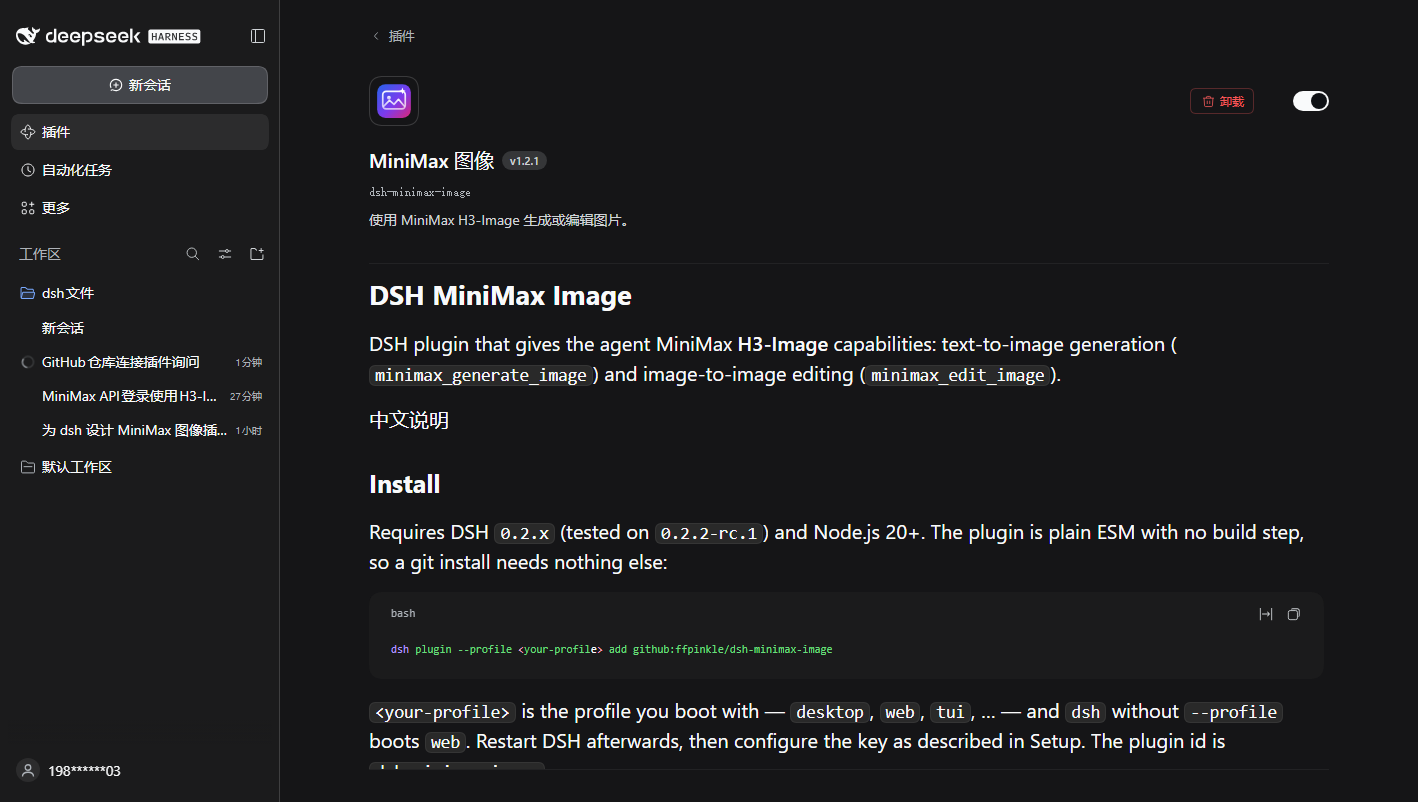
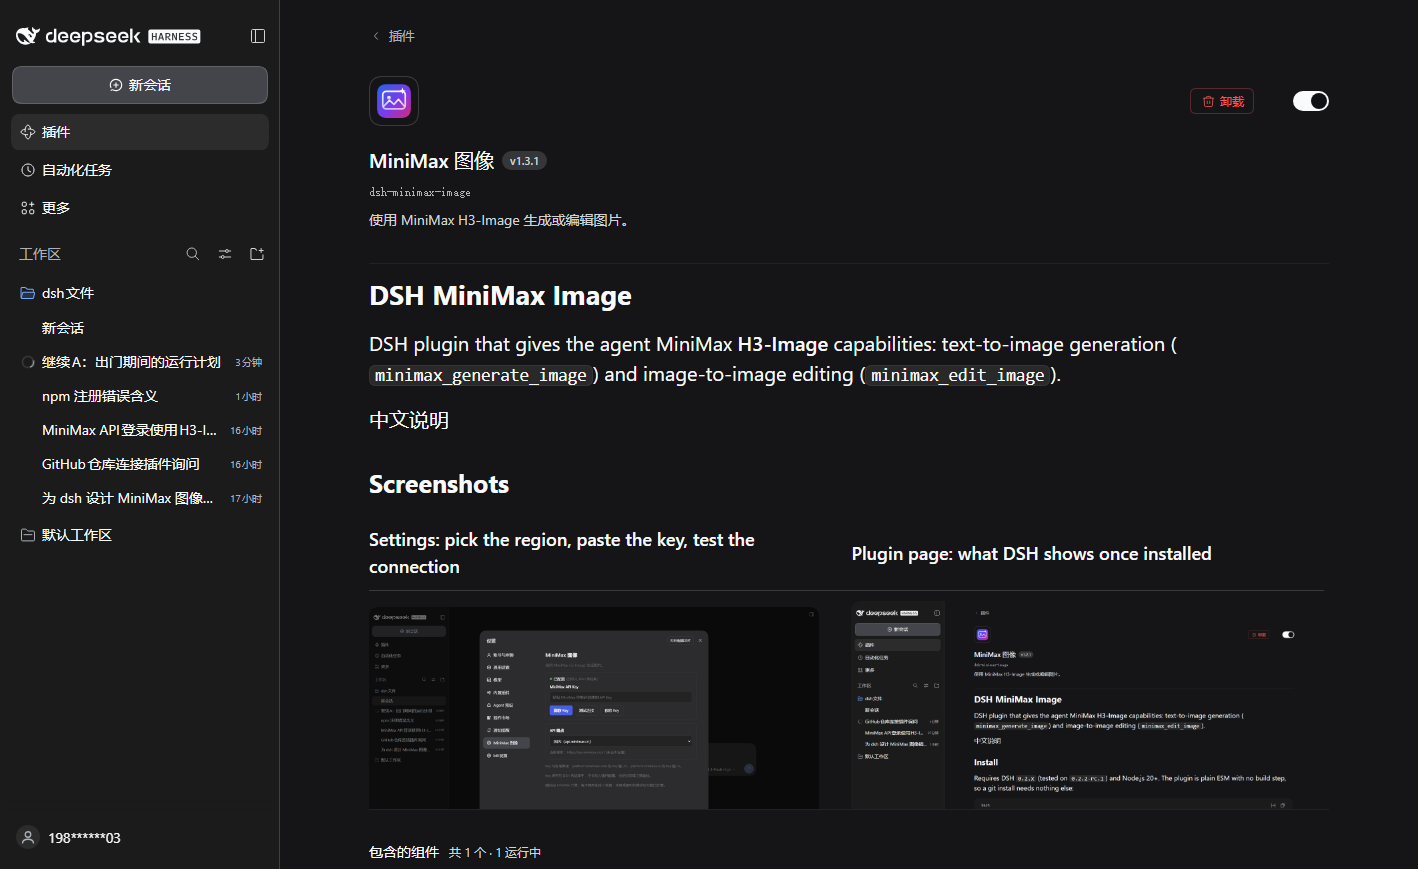
docs(readme): render the screenshots in the plugin page and refresh the plugin page image
Raw img tags inside a table are dropped by the plugin page renderer, so the README showed two empty cells; plain Markdown images work everywhere. screenshot-plugin.png is regenerated on 1.3.x.

diff --git a/README.md b/README.md
@@ -9,9 +9,9 @@ DSH plugin that gives the agent MiniMax **H3-Image** capabilities: text-to-image
 
 ## Screenshots
 
-| Settings | Plugin page |
+| Settings: pick the region, paste the key, test the connection | Plugin page: what DSH shows once installed |
 | --- | --- |
-| <img src="assets/screenshot-settings.png" alt="MiniMax Image settings section with a saved key and a passing connection test" width="460"> | <img src="assets/screenshot-plugin.png" alt="dsh-minimax-image plugin page in DSH" width="460"> |
+| ![MiniMax Image settings section with a saved key and a passing connection test](assets/screenshot-settings.png) | ![dsh-minimax-image plugin page in DSH](assets/screenshot-plugin.png) |
 
 ## Install
 

diff --git a/CHANGELOG.md b/CHANGELOG.md
@@ -8,6 +8,16 @@ All notable changes to this project are documented here. The format follows
 
 ## [Unreleased]
 
+## [1.3.2] - 2026-11-13
+
+### Fixed
+
+- The screenshots in the README now show up on the plugin page. They were written as raw
+  `<img>` tags inside a table, which the plugin page renderer drops, leaving two empty cells;
+  they are plain Markdown images now, so the page, GitHub and npm all display them.
+- `assets/screenshot-plugin.png` is regenerated from 1.3.x (it still showed the 1.2.1 version
+  badge and the old single-method install instructions).
+
 ## [1.3.1] - 2026-11-13
 
 ### Fixed
